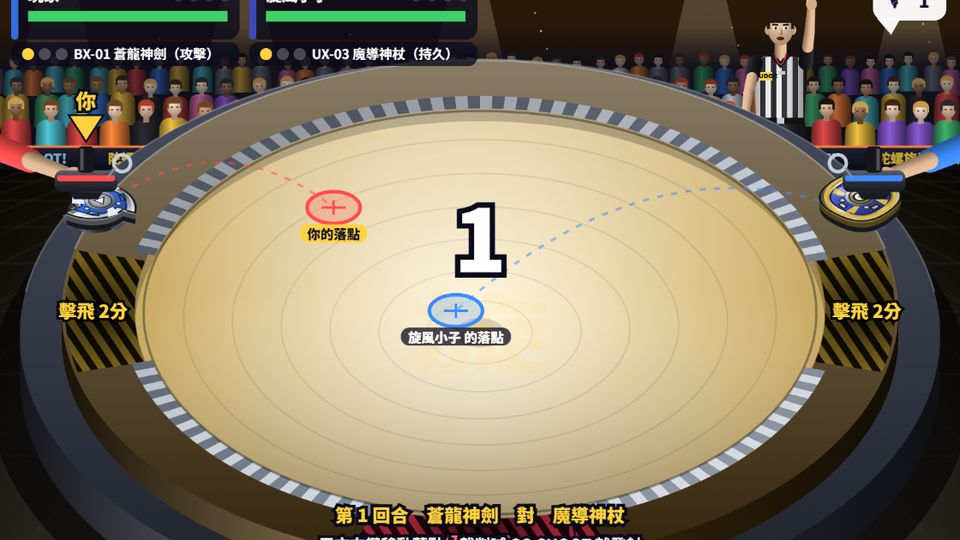
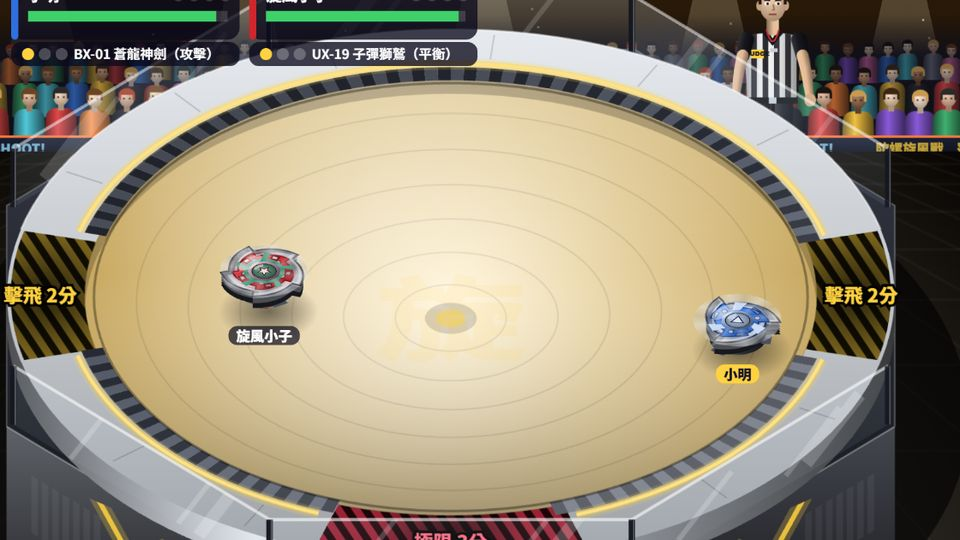
陀螺旋風戰：新擂台（黑色八角底座、透明護罩、發光軌道），碰撞更頻繁並加入撞飛、撞牆特效

diff --git a/spin.js b/spin.js
@@ -55,7 +55,7 @@ const STAGES=[
   {name:'暴風競技場',stars:5,th:'storm',slope:1,fric:1,decay:1,wind:1,pk:[PK(Math.PI/2,.26,'x'),PK(0,.2,'over'),PK(Math.PI,.2,'over')]},
   {name:'冠軍決賽場',stars:5,th:'final',slope:1,fric:1,decay:1,pk:[PK(Math.PI/2,.24,'x'),PK(0,.19,'over'),PK(Math.PI,.19,'over')]}];
 STAGES.forEach(s=>s.pk.forEach(p=>p.w*=1.3)); /* 場外口袋開口加寬，比較容易被撞進洞裡 */
-const TH={gym:{bg:['#1d2a44','#0e1526'],fl:['#e8edf5','#9aa8c0'],rim:'#2a3550',acc:'#3d8bff'},
+const TH={gym:{bg:['#1d2a44','#0e1526'],fl:['#f2f5f9','#a8b2c4'],rim:'#2a3550',acc:'#3d8bff',rail:'#5cf03c'},
   street:{bg:['#2a2230','#121018'],fl:['#d8d0c4','#8a8070'],rim:'#3a3038',acc:'#ff7a3d'},
   arena:{bg:['#1a1240','#08061a'],fl:['#dfe6ff','#8a94c8'],rim:'#2a2060',acc:'#b98cff'},
   ice:{bg:['#bfe6ff','#5a9ac8'],fl:['#f4fbff','#9cd2f0'],rim:'#4a7aa8',acc:'#3ddbd9'},
@@ -190,18 +190,37 @@ function themeBg(c,th,t){ const T=TH[th],g=c.createLinearGradient(0,0,0,H); g.ad
   if(th==='storm'){ c.strokeStyle='rgba(220,240,255,.35)'; c.lineWidth=2; for(let i=0;i<24;i++){ const x=(i*83+t*300)%(W+200)-100,y=(i*41)%H; c.beginPath(); c.moveTo(x,y); c.lineTo(x+60,y+6); c.stroke(); } }
   if(th==='twin'){ c.strokeStyle='rgba(62,209,106,.15)'; c.lineWidth=1; for(let i=0;i<W;i+=40){ c.beginPath(); c.moveTo(i,0); c.lineTo(i,H); c.stroke(); } for(let j=0;j<H;j+=40){ c.beginPath(); c.moveTo(0,j); c.lineTo(W,j); c.stroke(); } } }
 const inPk=(st,a,extra)=>{ for(const p of st.pk){ let d=Math.abs(((a-p.a)%TAU+TAU*1.5)%TAU-Math.PI); if(d<p.w+(extra||0)) return p; } return null; };
+let ATT=60,POCKV=360,BMK=.05,LUNGE=9,KBK=1.5; const OCT_R=AR+60,OCT_Y=16,OCT_H=90,WALL_H=46;
+const octP=(k,r,dy)=>{ const a=k*Math.PI/4+Math.PI/8; return [sx(Math.cos(a)*r),sy(Math.sin(a)*r)+dy]; };
+function acryl(c,k,al,back){ const [x0,y0]=octP(k,OCT_R-4,OCT_Y),[x1,y1]=octP(k+1,OCT_R-4,OCT_Y),H2=WALL_H; /* 透明壓克力護罩一片 */
+  c.save(); c.beginPath(); c.moveTo(x0,y0); c.lineTo(x1,y1); c.lineTo(x1,y1-H2); c.lineTo(x0,y0-H2); c.closePath();
+  const g=c.createLinearGradient(0,Math.min(y0,y1)-H2,0,Math.max(y0,y1)); g.addColorStop(0,'rgba(225,240,255,'+al*1.3+')'); g.addColorStop(1,'rgba(200,225,255,'+al*.45+')'); c.fillStyle=g; c.fill();
+  c.clip(); c.strokeStyle='rgba(255,255,255,'+(back?.16:.2)+')'; c.lineWidth=10; for(const u of [.22,.3,.72]){ const px=x0+(x1-x0)*u,py=y0+(y1-y0)*u; c.beginPath(); c.moveTo(px-20,py+4); c.lineTo(px+22,py-H2-4); c.stroke(); c.lineWidth=4; } c.restore(); /* 反光斜紋 */
+  c.strokeStyle='rgba(255,255,255,'+(back?.5:.6)+')'; c.lineWidth=2.4; c.beginPath(); c.moveTo(x0,y0-H2); c.lineTo(x1,y1-H2); c.stroke(); /* 上緣 */
+  c.strokeStyle='rgba(20,22,30,.85)'; c.lineWidth=5; c.beginPath(); c.moveTo(x0,y0); c.lineTo(x0,y0-H2); c.moveTo(x1,y1); c.lineTo(x1,y1-H2); c.stroke(); /* 黑色角柱 */
+  c.strokeStyle='rgba(255,255,255,.3)'; c.lineWidth=1; c.beginPath(); c.moveTo(x0+1.5,y0); c.lineTo(x0+1.5,y0-H2); c.moveTo(x1+1.5,y1); c.lineTo(x1+1.5,y1-H2); c.stroke(); }
+const stadFC={}; function stadiumFront(si){ if(stadFC[si]) return stadFC[si]; const cv=document.createElement('canvas'); cv.width=W*2; cv.height=H*2; const c=cv.getContext('2d'); c.scale(2,2);
+  for(let k=0;k<8;k++){ const m=k*Math.PI/4+Math.PI/4; if(Math.sin(m)<.01) continue; acryl(c,k,.07,false); } stadFC[si]=cv; return cv; }
 function stadium(si){ if(stadCache[si]) return stadCache[si]; const ST=STAGES[si],T=TH[ST.th],cv=document.createElement('canvas'); cv.width=W*2; cv.height=H*2; const c=cv.getContext('2d'); c.scale(2,2);
   const dip=r=>DIP*Math.max(0,1-(r/AR)*(r/AR)),E=(r,dy)=>{ c.beginPath(); c.ellipse(CX,CY+(dy||0)+dip(r),r*S,r*S*SQ,0,0,TAU); };
   // 圓柱側面（只畫看得到的前半圈），左右暗、偏左亮
   const side=(r,y0,h,col)=>{ const rx=r*S,ry=r*S*SQ,g=c.createLinearGradient(CX-rx,0,CX+rx,0); g.addColorStop(0,shade(col,-.65)); g.addColorStop(.28,shade(col,.2)); g.addColorStop(.55,shade(col,-.2)); g.addColorStop(1,shade(col,-.75));
     c.beginPath(); c.ellipse(CX,CY+y0,rx,ry,0,0,Math.PI); c.lineTo(CX-rx,CY+y0+h); c.ellipse(CX,CY+y0+h,rx,ry,0,Math.PI,0,true); c.closePath(); c.fillStyle=g; c.fill(); };
-  // 台座
-  const PR=AR+64; c.fillStyle='rgba(0,0,0,.55)'; c.beginPath(); c.ellipse(CX,CY+66,PR*S+26,PR*S*SQ+16,0,0,TAU); c.fill();
-  side(PR,20,36,'#3a3f4e'); const pg=c.createLinearGradient(0,CY-PR*S*SQ,0,CY+PR*S*SQ); pg.addColorStop(0,'#4a5062'); pg.addColorStop(1,'#20232c'); c.fillStyle=pg; E(PR,20-dip(PR)); c.fill();
-  c.strokeStyle='rgba(255,255,255,.22)'; c.lineWidth=1.5; c.beginPath(); c.ellipse(CX,CY+20,PR*S,PR*S*SQ,0,Math.PI*1.05,Math.PI*1.95); c.stroke();
-  // 場地外殼
-  side(AR+40,0,22,T.rim); const g0=c.createLinearGradient(0,CY-(AR+40)*S*SQ,0,CY+(AR+40)*S*SQ); g0.addColorStop(0,shade(T.rim,.35)); g0.addColorStop(1,shade(T.rim,-.3)); c.fillStyle=g0; E(AR+40); c.fill();
-  c.strokeStyle='rgba(255,255,255,.3)'; c.lineWidth=1.5; c.beginPath(); c.ellipse(CX,CY,(AR+40)*S,(AR+40)*S*SQ,0,Math.PI*1.08,Math.PI*1.92); c.stroke();
+  // 黑色壓克力底座（八角形）＋透明護罩的後半圈；前半圈護罩在 stadiumFront 畫在陀螺前面
+  const SH=T.shell||(ST.th==='lava'||ST.th==='space'?T.rim:'#dde2ea'),RL=T.rail||T.acc;
+  c.fillStyle='rgba(0,0,0,.6)'; c.beginPath(); c.ellipse(CX,CY+96,(OCT_R+20)*S,(OCT_R+20)*S*SQ,0,0,TAU); c.fill();
+  for(let k=0;k<8;k++){ const m=k*Math.PI/4+Math.PI/4; if(Math.sin(m)<.01) continue; const [x0,y0]=octP(k,OCT_R,OCT_Y),[x1,y1]=octP(k+1,OCT_R,OCT_Y),lit=.5+.5*Math.cos(m-Math.PI*.75); /* 底座側面 */
+    c.beginPath(); c.moveTo(x0,y0); c.lineTo(x1,y1); c.lineTo(x1,y1+OCT_H); c.lineTo(x0,y0+OCT_H); c.closePath(); const sg=c.createLinearGradient(0,Math.min(y0,y1),0,Math.max(y0,y1)+OCT_H); sg.addColorStop(0,shade('#2a2d36',lit*.25)); sg.addColorStop(1,'#08090c'); c.fillStyle=sg; c.fill();
+    c.save(); c.clip(); c.transform(x1-x0,y1-y0,0,OCT_H,x0,y0); /* 面板座標：0～1 */
+    c.fillStyle='rgba(255,255,255,.05)'; for(let q=0;q<7;q++) c.fillRect(.08+q*.04,.3,.025,.5); for(let q=0;q<7;q++) c.fillRect(.64+q*.04,.3,.025,.5); /* 散熱格柵 */
+    c.strokeStyle=RL; c.globalAlpha=.85; c.lineWidth=.03; c.beginPath(); c.moveTo(.36,.18); c.lineTo(.64,.95); c.moveTo(.64,.18); c.lineTo(.36,.95); c.stroke(); c.globalAlpha=.25; c.lineWidth=.09; c.stroke(); c.restore();
+    c.strokeStyle='rgba(255,255,255,.18)'; c.lineWidth=1; c.beginPath(); c.moveTo(x0,y0+.5); c.lineTo(x1,y1+.5); c.stroke(); }
+  { c.beginPath(); for(let k=0;k<=8;k++){ const [x,y]=octP(k,OCT_R,OCT_Y); k?c.lineTo(x,y):c.moveTo(x,y); } const tg=c.createLinearGradient(0,CY-OCT_R*S*SQ,0,CY+OCT_R*S*SQ); tg.addColorStop(0,'#3a3e4a'); tg.addColorStop(1,'#14161c'); c.fillStyle=tg; c.fill(); c.strokeStyle='rgba(255,255,255,.25)'; c.lineWidth=1.2; c.stroke(); }
+  for(let k=0;k<8;k++){ const m=k*Math.PI/4+Math.PI/4; if(Math.sin(m)>-.01) continue; acryl(c,k,.17,true); } /* 後面的透明護罩 */
+  // 場地外殼（白色塑膠）
+  side(AR+40,0,22,SH); const g0=c.createLinearGradient(0,CY-(AR+40)*S*SQ,0,CY+(AR+40)*S*SQ); g0.addColorStop(0,shade(SH,.3)); g0.addColorStop(1,shade(SH,-.28)); c.fillStyle=g0; E(AR+40); c.fill();
+  c.strokeStyle='rgba(255,255,255,.55)'; c.lineWidth=1.5; c.beginPath(); c.ellipse(CX,CY,(AR+40)*S,(AR+40)*S*SQ,0,Math.PI*1.08,Math.PI*1.92); c.stroke();
+  c.strokeStyle='rgba(0,0,0,.18)'; c.lineWidth=1; for(let q=0;q<16;q++){ const a=q/16*TAU+.1; if(inPk(ST,a,.08)) continue; c.beginPath(); c.moveTo(sx(Math.cos(a)*(AR+14)),sy(Math.sin(a)*(AR+14))); c.lineTo(sx(Math.cos(a)*(AR+36)),sy(Math.sin(a)*(AR+36))); c.stroke(); } /* 外殼分模線 */
   // 得分口袋（往下凹的洞）
   for(const p of ST.pk){ c.save(); const a0=p.a-p.w,a1=p.a+p.w; c.beginPath(); for(let i=0;i<=20;i++){ const a=a0+(a1-a0)*i/20; c.lineTo(sx(Math.cos(a)*(AR+38)),sy(Math.sin(a)*(AR+38))); } for(let i=20;i>=0;i--){ const a=a0+(a1-a0)*i/20; c.lineTo(sx(Math.cos(a)*(AR-4)),sy(Math.sin(a)*(AR-4))); } c.closePath();
     const xz=p.k==='x'; c.fillStyle=xz?'#1c0408':'#141004'; c.fill(); c.clip(); c.strokeStyle=xz?'rgba(255,61,90,.55)':'rgba(255,210,63,.5)'; c.lineWidth=6; for(let i=-30;i<30;i++){ c.beginPath(); c.moveTo(sx(Math.cos(p.a)*AR)+i*14-40,sy(Math.sin(p.a)*AR)-60); c.lineTo(sx(Math.cos(p.a)*AR)+i*14+40,sy(Math.sin(p.a)*AR)+60); c.stroke(); }
@@ -222,8 +241,10 @@ function stadium(si){ if(stadCache[si]) return stadCache[si]; const ST=STAGES[si
   c.fillStyle='rgba(0,0,0,.14)'; E(14); c.fill(); c.fillStyle=T.acc; c.globalAlpha=.5; E(8); c.fill(); c.globalAlpha=1;
   // 齒輪軌道（有內緣陰影）
   for(let i=0;i<180;i++){ const a=i/180*TAU; if(inPk(ST,a)) continue; const a2=a+TAU/180; c.beginPath(); c.moveTo(sx(Math.cos(a)*(AR-6)),sy(Math.sin(a)*(AR-6))); c.lineTo(sx(Math.cos(a)*(AR+6)),sy(Math.sin(a)*(AR+6))); c.lineTo(sx(Math.cos(a2)*(AR+6)),sy(Math.sin(a2)*(AR+6))); c.lineTo(sx(Math.cos(a2)*(AR-6)),sy(Math.sin(a2)*(AR-6))); c.closePath();
-    const lit=.5+.5*Math.sin(a+.6); c.fillStyle=ST.lava?(i%2?'#ff9a4a':'#a83a1a'):shade(i%2?'#c8ced8':'#6a7282',(lit-.5)*.5); c.fill(); }
+    const lit=.5+.5*Math.sin(a+.6); c.fillStyle=ST.lava?(i%2?'#ff9a4a':'#a83a1a'):shade(i%2?'#5a606e':'#2a2e38',(lit-.5)*.5); c.fill(); }
   c.strokeStyle='rgba(0,0,0,.35)'; c.lineWidth=2; E(AR-7); c.stroke();
+  { const seg=[]; let a0=null; for(let i=0;i<=360;i++){ const a=i/360*TAU,inn=!inPk(ST,a,.03); if(inn&&a0==null) a0=a; if((!inn||i===360)&&a0!=null){ seg.push([a0,a]); a0=null; } } /* 發光軌道線（口袋處斷開） */
+    for(const [p0,p1] of seg){ for(const [lw,al] of [[9,.18],[5,.35],[2.6,1]]){ c.strokeStyle=al<1?RL:shade(RL,.35); c.globalAlpha=al; c.lineWidth=lw; c.beginPath(); c.ellipse(CX,CY,(AR+9)*S,(AR+9)*S*SQ,0,p0,p1); c.stroke(); } } c.globalAlpha=1; }
   stadCache[si]=cv; return cv; }
 // 看台觀眾（固定亂數產生，三排，後排比較小、比較暗）
 const CROWD=(()=>{ const a=[]; let sd=7; const rnd=()=>(sd=(sd*16807)%2147483647)/2147483647;
@@ -326,7 +347,7 @@ function create(env,opts){
   const rdy=T.map(f=>!f.human); let ed=local2?0:me,cur=0,waiting=false,deckT=net?60:0;
   let t=0,rt=0,round=0,phase='ready',PT=opts.preview?.2:2.6,fx=[],deb=[],ban=null,ev=[],shake=0,hitstop=0,ended=false,sendT=0,lastBeep=9,winKey=null,inBuf={},sentDash=0,myIn={...NOIN},windA=0,cam={x:W/2,y:H/2,z:1},focus=null,punch=0,slow=0,cheer=0,refSay=null,camOn=true,nb=null,BUL=[];
   const snd=k=>{ if(opts.preview) return; env.sfx(k); if(host&&net) ev.push(['s',k]); };
-  const addFx=(k,x,y,a,b)=>{ spawn(k,x,y,a,b); if(host&&net) ev.push([k,R1(x),R1(y),a==null?0:a,b==null?0:b]); };
+  let wallHits=0; const addFx=(k,x,y,a,b)=>{ spawn(k,x,y,a,b); if(host&&net) ev.push([k,R1(x),R1(y),a==null?0:a,b==null?0:b]); };
   // 裁判喊話（同時出對話框）、觀眾歡呼聲
   function voice(txt,urgent){ refSay={txt,t:Math.max(1.3,txt.length*.17)}; if(opts.preview) return; if(host&&net) ev.push(['v',txt,urgent?1:0]); speak(txt,urgent); }
   function roar(v,d){ cheer=Math.max(cheer,v*1.3); if(opts.preview) return; if(host&&net) ev.push(['c',v,d]); roarL(v,d); }
@@ -336,6 +357,9 @@ function create(env,opts){
     const g=AC.createGain(),n0=AC.currentTime; g.gain.setValueAtTime(.0001,n0); g.gain.linearRampToValueAtTime(.3*vol,n0+.18); g.gain.setValueAtTime(.3*vol,n0+d*.45); g.gain.exponentialRampToValueAtTime(.0001,n0+d);
     so.connect(bp); bp.connect(lp); lp.connect(g); g.connect(AC.destination); so.start(n0); so.stop(n0+d+.05); }catch(e){} }
   function spawn(k,x,y,a,b){
+    if(k==='clash'){ const q0=b/100; for(let i=0;i<10;i++){ const q=q0+Math.PI/2*(i%2?1:-1)+(Math.random()-.5)*1.1; fx.push({k:'sl',x,y,a:q,l:.22,L:.22,r:40+Math.min(120,a*.25)*(.6+Math.random()*.6)}); } fx.push({k:'ring',x,y,l:.3,L:.3,r:70+Math.min(90,a*.2),c:'#fff3c0'}); if(a>300) fx.push({k:'flash',l:.12,L:.12}); }
+    if(k==='wall'){ const r=hyp(x,y)||1,nx=x/r,ny=y/r,tx=-ny*(b||1),ty=nx*(b||1),n=Math.min(40,10+a*.08); for(let i=0;i<n;i++){ const sd=(i%2?1:-1),s=150+Math.random()*(150+a*.6),q=(Math.random()-.5)*.6; fx.push({k:'sp',x,y,z:8,vx:(tx*sd-nx*.6+q)*s,vy:(ty*sd-ny*.6-q)*s,vz:60+Math.random()*180,l:.15+Math.random()*.35,c:['#ffffff','#fff3a0','#9cff6a','#ffb040'][i%4]}); }
+      fx.push({k:'wf',a:Math.atan2(y,x),l:.35,L:.35,w:.1+Math.min(.25,a/2000)}); fx.push({k:'glow',x,y,l:.14,L:.14,r:40+Math.min(80,a*.12)}); return; }
     if(k==='spark'){ const n=Math.min(64,12+a*.13); for(let i=0;i<n;i++){ const q=Math.random()*TAU,s=120+Math.random()*(220+a*.7); fx.push({k:'sp',x,y,z:10,vx:Math.cos(q)*s,vy:Math.sin(q)*s,vz:40+Math.random()*170,l:.12+Math.random()*.38,c:['#fffbe8','#ffe08a','#ffb040','#ff8a2a'][i%4]}); }
       fx.push({k:'glow',x,y,l:.16,L:.16,r:30+Math.min(90,a*.16)}); if(a>260) fx.push({k:'ring',x,y,l:.25,L:.25,r:60,c:'#ffffff'}); }
     else if(k==='dash'){ for(let i=0;i<14;i++) fx.push({k:'sp',x:x+(Math.random()-.5)*16,y:y+(Math.random()-.5)*16,z:4,vx:(Math.random()-.5)*200,vy:(Math.random()-.5)*200,vz:80+Math.random()*80,l:.3+Math.random()*.3,c:i%2?'#ff7a3d':'#ffe060'}); fx.push({k:'ring',x,y,l:.35,L:.35,r:60,c:'#ff9d3d'}); }
@@ -411,20 +435,21 @@ function create(env,opts){
     let ax=-f.x*2.3*ST.slope,ay=-f.y*2.3*ST.slope; /* 碗面坡度：把陀螺一直拉回中間互撞 */
     ax+=tx*120*K.wander*K.mv*frac; ay+=ty*120*K.wander*K.mv*frac;
     f.wa+=(Math.random()-.5)*h*10; const wn=40*(.25+K.wander)*frac; ax+=Math.cos(f.wa)*wn; ay+=Math.sin(f.wa)*wn; /* 陀螺自己晃動 */
-    { const v=hyp(f.vx,f.vy)||.001,vd=K.cruise*Math.pow(frac,.6)*(f.spin<20?.5:1); if(v<vd){ const a=(vd-v)*1.6; ax+=f.vx/v*a; ay+=f.vy/v*a; } /* 底座抓地自己往前跑（平頭跑得快、針頭幾乎不動） */
+    if(f.kT>0) f.kT-=h; { const v=hyp(f.vx,f.vy)||.001,vd=K.cruise*Math.pow(frac,.6)*(f.spin<20?.5:1); if(v<vd&&!(f.kT>0)){ const a=(vd-v)*1.6; ax+=f.vx/v*a; ay+=f.vy/v*a; } /* 底座抓地自己往前跑（平頭跑得快、針頭幾乎不動） */
       f.cp=(f.cp||Math.random()*TAU)+h*(.8+Math.random()*.8); const cv=K.curv*K.dir*frac*h*(.3+.9*Math.sin(f.cp)),cs=Math.cos(cv),sn=Math.sin(cv),vx0=f.vx; f.vx=vx0*cs-f.vy*sn; f.vy=vx0*sn+f.vy*cs; } /* 順著旋轉方向轉彎，跑出花瓣路線 */
-    if(K.seek>0&&f.spin>15){ const tg=T.find(q=>q!==f&&q.st==='on'); if(tg){ const dx=tg.x-f.x,dy=tg.y-f.y,d=hyp(dx,dy); if(d>RAD*2.4){ const v=hyp(f.vx,f.vy)||1,cr=clamp((f.vx*dy-f.vy*dx)/(v*d),-1,1),tn=cr*K.seek*frac*h*clamp((rt-2.5)/2,0,1),cs=Math.cos(tn),sn=Math.sin(tn),vx0=f.vx; f.vx=vx0*cs-f.vy*sn; f.vy=vx0*sn+f.vy*cs; } } } /* 攻擊型底座一直掃向對手（真實比賽裡花瓣路線會反覆撞上中間的陀螺） */
+    if(f.spin>15&&!(f.kT>0)){ const tg=T.find(q=>q!==f&&q.st==='on'); if(tg){ const dx=tg.x-f.x,dy=tg.y-f.y,d=hyp(dx,dy); if(d>RAD*2.4){ const v=hyp(f.vx,f.vy)||1,cr=clamp((f.vx*dy-f.vy*dx)/(v*d),-1,1),tn=cr*(d<120?LUNGE:Math.max(K.seek,1.6)*1.25)*frac*h*clamp((rt-1)/1.5,0,1),cs=Math.cos(tn),sn=Math.sin(tn),vx0=f.vx; f.vx=vx0*cs-f.vy*sn; f.vy=vx0*sn+f.vy*cs; } const at=(ATT+60*Math.min(K.seek,3.5))*frac*clamp((rt-1)/1.5,0,1); ax+=dx/d*at; ay+=dy/d*at; } } /* 攻擊型底座一直掃向對手（真實比賽裡花瓣路線會反覆撞上中間的陀螺） */
     if(ST.wind){ const wd=Math.sin(windA)>0?1:-1; ax+=-ny*wd*70; ay+=nx*wd*70; }
     if(f.dashT>0){ f.dashT-=h; ax+=tx*1100*K.dash*(ST.lava?1.3:1); ay+=ty*1100*K.dash*(ST.lava?1.3:1);
       if(f.dashT<=0){ f.vx-=nx*260; f.vy-=ny*260; f.dEnd=rt; f.wallT=0; } }
-    f.vx+=ax*h; f.vy+=ay*h; const damp=Math.exp(-h*ST.fric*(.35+.35/K.mv)*(f.spin<20?2:1)); f.vx*=damp; f.vy*=damp;
+    f.vx+=ax*h; f.vy+=ay*h; const damp=Math.exp(-h*ST.fric*(.35+.35/K.mv)*(f.spin<20?2:1)*(f.kT>0?.6:1)); f.vx*=damp; f.vy*=damp;
     const vmax=f.dashT>0?620:520,v=hyp(f.vx,f.vy); if(v>vmax){ f.vx*=vmax/v; f.vy*=vmax/v; }
     f.x+=f.vx*h; f.y+=f.vy*h;
     r=hyp(f.x,f.y); nx=f.x/r; ny=f.y/r; const wall=AR-RAD+6;
     if(r>wall){ const pk=inPk(ST,Math.atan2(f.y,f.x));
-      if(pk){ const vr=f.vx*nx+f.vy*ny; if(vr<35&&r<AR+4&&rt-f.lastT>.5){ if(vr>0){ f.vx-=vr*nx*1.6; f.vy-=vr*ny*1.6; } f.x=nx*Math.min(r,wall+4); f.y=ny*Math.min(r,wall+4); } /* 口袋前緣：慢慢滑過去不會掉，被撞或衝太快才出場 */
+      if(pk){ const vr=f.vx*nx+f.vy*ny; if(vr<POCKV&&r<AR+4&&rt-f.lastT>.5){ if(vr>0){ f.vx-=vr*nx*1.6; f.vy-=vr*ny*1.6; } f.x=nx*Math.min(r,wall+4); f.y=ny*Math.min(r,wall+4); } /* 口袋前緣：慢慢滑過去不會掉，被撞或衝太快才出場 */
         else if(r>AR+6){ finish(f,pk.k==='x'?'x':'over',pk); return; } } /* 掉進紅色極限區域＝極限勝利 3 分，黃色擊飛區域＝擊飛勝利 2 分 */
-      else { const vr=f.vx*nx+f.vy*ny; if(vr>300*Math.sqrt(K.wgt)&&rt-f.lastT<.35){ finish(f,'over',null); return; } /* 被重擊：直接飛過護欄出場＝擊飛勝利 */
+      else { const vr=f.vx*nx+f.vy*ny; if(vr>470*Math.sqrt(K.wgt)&&rt-f.lastT<.35){ finish(f,'over',null); return; } /* 被重擊：直接飛過護欄出場＝擊飛勝利 */
+        if(vr>170&&!(f.wcd>rt)){ f.wcd=rt+.25; wallHits++; addFx('wall',nx*AR,ny*AR,Math.round(vr),K.dir); snd(vr>320?'hurt':'bump'); shake=Math.max(shake,Math.min(.3,vr/1400)); if(vr>320){ hitstop=Math.max(hitstop,.05); roar(.45,1); } f.spin-=vr*.004; }
         if(vr>0){ f.vx-=vr*nx*1.75; f.vy-=vr*ny*1.75; } f.x=nx*wall; f.y=ny*wall; const touch=!f.wallT; f.wallT=(f.wallT||0)+h; if(f.wallT>.7&&f.dashT<=0){ f.wallT=0; f.vx-=nx*200; f.vy-=ny*200; } /* 貼著場邊太久會被彈回中間 */
         const vt=f.vx*(-ny*K.dir)+f.vy*(nx*K.dir);
         if(f.dashT<=0&&f.railCD<=0&&f.spin>25&&vt>70&&(touch?Math.random()<.42*K.dash:Math.random()<.02*K.dash*(1+vt/200))){ f.dashT=.34; f.railCD=1.6; addFx('dash',f.x,f.y); snd('boost'); }
@@ -452,17 +477,18 @@ function create(env,opts){
     const vn=(b.vx-a.vx)*nx+(b.vy-a.vy)*ny; if(vn>-10) return;
     const fa=a.spin/100,fb=b.spin/100,same=a.k.dir===b.k.dir,ex=(same?300:120)*(a.k.atk*fa+b.k.atk*fb)/2+(a.dashT>0||b.dashT>0?230:0);
     const j=-(1.55)*vn/(1/ma+1/mb),I=-vn+ex*.6;
-    const kb=1.85*(j+ex)*a.k.atk/b.k.def/mb*(1-.12*b.k.low),ka=1.85*(j+ex)*b.k.atk/a.k.def/ma*(1-.12*a.k.low);
+    const kb=KBK*(j+ex)*a.k.atk/b.k.def/mb*(1-.12*b.k.low),ka=KBK*(j+ex)*b.k.atk/a.k.def/ma*(1-.12*a.k.low);
     b.vx+=nx*kb; b.vy+=ny*kb; a.vx-=nx*ka; a.vy-=ny*ka;
-    b.spin-=I*.017*a.k.atk/b.k.def; a.spin-=I*.017*b.k.atk/a.k.def;
+    for(const [f,k] of [[a,ka],[b,kb]]) if(k>200){ const r=hyp(f.x,f.y)||1; f.vx+=f.x/r*k*.1; f.vy+=f.y/r*k*.1; if(k>200) f.kT=Math.min(.55,.2+k/1400); } /* 被撞的一方往外飛、一路滑到場邊 */
+    b.spin-=I*.012*a.k.atk/b.k.def; a.spin-=I*.012*b.k.atk/a.k.def;
     if(!same){ const m=(a.spin+b.spin)/2; a.spin+=(m-a.spin)*.12; b.spin+=(m-b.spin)*.12; }
     if(I>110&&rt>.8){ splitTop(a,b); splitTop(b,a); }
     const thr=210;
-    if(I>thr){ b.bm+=(I-thr)*.27*a.k.atk/(b.k.def*b.k.res)*(.4+Math.random()); a.bm+=(I-thr)*.27*b.k.atk/(a.k.def*a.k.res)*(.4+Math.random()); }
+    if(I>thr){ b.bm+=(I-thr)*BMK*a.k.atk/(b.k.def*b.k.res)*(.4+Math.random()); a.bm+=(I-thr)*BMK*b.k.atk/(a.k.def*a.k.res)*(.4+Math.random()); }
     if(a.bm>=100&&b.bm>=100){ if(a.bm>b.bm) b.bm=99; else a.bm=99; } /* 同時爆裂只算一顆 */
     a.last=b.i; a.lastT=rt; b.last=a.i; b.lastT=rt; a.hs++; b.hs++;
     if(a.dashT>0||rt-a.dEnd<.4) b.lastX=rt; if(b.dashT>0||rt-b.dEnd<.4) a.lastX=rt;
-    const mx=(a.x+b.x)/2,my=(a.y+b.y)/2; addFx('spark',mx,my,Math.round(I)); snd(I>260?'hurt':'bump');
+    const mx=(a.x+b.x)/2,my=(a.y+b.y)/2; addFx('spark',mx,my,Math.round(I)); if(I>150) addFx('clash',mx,my,Math.round(I),Math.round(Math.atan2(ny,nx)*100)); snd(I>260?'hurt':'bump');
     if(I>260){ hitstop=Math.max(hitstop,.07); shake=Math.max(shake,.22); punch=.5; roar(.4,1); }
     for(const f of [a,b]) if(f.bm>=100&&f.st==='on') finish(f,'burst');
     if(a.spin<=0&&a.st==='on'){ a.spin=0; finish(a,'spin'); } if(b.spin<=0&&b.st==='on'){ b.spin=0; finish(b,'spin'); } }
@@ -518,6 +544,7 @@ function create(env,opts){
     if(net){ sendT-=dt; if(sendT<=0){ sendT=1/20; net.send({s:{f:T.map(pk),sc:score,ph:phase,pt:R1(PT),rd:round,rt:R1(rt),wa:R1(windA),ev,bl:BUL.map(b=>[b.own,R1(b.x),R1(b.y),R1(b.spin)])}}); ev=[]; } } }
   // 衝刺時軌道磨出火花、地上留下擦痕；觀眾情緒、裁判對話框
   function visStep(dt){ if(cheer>0) cheer=Math.max(0,cheer-dt*.35); if(refSay){ refSay.t-=dt; if(refSay.t<=0) refSay=null; }
+    if(phase==='fight'||phase==='after') for(const f of T) if(f.st==='on'&&hyp(f.vx,f.vy)>330){ f.ghT=(f.ghT||0)-dt; if(f.ghT<=0){ f.ghT=.03; fx.push({k:'gh',x:f.x,y:f.y,l:.16,L:.16,c:f.col}); } }
     for(const f of T) if(f.st==='on'&&f.dashT>0&&(phase==='fight'||phase==='after')){ const r=hyp(f.x,f.y)||1,nx=f.x/r,ny=f.y/r,wx=f.x+nx*RAD*.9,wy=f.y+ny*RAD*.9,tx=-ny*f.k.dir,ty=nx*f.k.dir;
       for(let i=0;i<3;i++){ const q=(Math.random()-.5)*.8,s=120+Math.random()*240; fx.push({k:'sp',x:wx,y:wy,z:3,vx:(-tx+nx*.5+q)*s,vy:(-ty+ny*.5-q)*s,vz:40+Math.random()*100,l:.12+Math.random()*.25,c:Math.random()<.5?'#fff3c0':'#ffb040'}); }
       fx.push({k:'tr',x:f.x,y:f.y,l:1.6,L:1.6}); } }
@@ -577,6 +604,7 @@ function create(env,opts){
     c.save(); view(1); c.drawImage(bg,0,0,W,H);
     // 地上的擦痕與煙
     for(const e of fx){ if(e.k==='tr'){ c.globalAlpha=e.l/e.L*.28; c.fillStyle='#14141c'; c.beginPath(); c.ellipse(sx(e.x),sz(e.x,e.y),9,9*SQ,0,0,TAU); c.fill(); }
+      else if(e.k==='gh'){ c.globalAlpha=e.l/e.L*.32; c.fillStyle=e.c; c.beginPath(); c.ellipse(sx(e.x),sz(e.x,e.y)-9,20*S*TS*.85,20*S*TS*.85*SQ,0,0,TAU); c.fill(); } /* 被撞飛的殘影 */
       else if(e.k==='sm'){ c.globalAlpha=e.l/e.L*.35; c.fillStyle='#d8d8d8'; c.beginPath(); c.arc(sx(e.x),sz(e.x,e.y)-6,8+(1-e.l/e.L)*16,0,TAU); c.fill(); } }
     c.globalAlpha=1;
     for(const d of deb){ c.globalAlpha=Math.min(1,d.l); const X=sx(d.x),Y=sz(d.x,d.y)-d.z; softShadow(c,X,sz(d.x,d.y),12,.35);
@@ -609,8 +637,12 @@ function create(env,opts){
       if(f.dashT>0){ const dg=c.createRadialGradient(X,Y-10,0,X,Y-10,40); dg.addColorStop(0,'rgba(255,170,80,.45)'); dg.addColorStop(1,'rgba(255,120,40,0)'); c.fillStyle=dg; c.fillRect(X-40,Y-50,80,80); }
       if(f.st==='on'&&phase!=='over'&&cam.z<1.3){ const nm=R.names[f.i].slice(0,6),mine=local2?f.human:f.i===me&&f.human; c.font='900 11px '+TC; c.textAlign='center'; c.textBaseline='middle'; const w2=c.measureText(nm).width+12;
         c.fillStyle=mine?'#ffd23f':'rgba(11,10,28,.7)'; rr(c,X-w2/2,Y+14,w2,15,7); c.fill(); c.fillStyle=mine?'#14122b':'#fff'; c.fillText(nm,X,Y+22); } }
+    c.drawImage(stadiumFront(si),0,0,W,H); /* 前半圈透明護罩 */
     // 火花、撞擊閃光、衝擊波（不用加亮混色，部分手機會很卡）
     c.lineCap='round';
+    for(const e of fx){ if(e.k==='sl'){ const u=1-e.l/e.L,X=sx(e.x),Y=sz(e.x,e.y)-12,dx=Math.cos(e.a),dy=Math.sin(e.a)*SQ,d0=e.r*u*.7,d1=e.r*(.35+u*.9); c.globalAlpha=e.l/e.L; c.strokeStyle='#fffbe8'; c.lineWidth=4*e.l/e.L+1; c.beginPath(); c.moveTo(X+dx*d0,Y+dy*d0); c.lineTo(X+dx*d1,Y+dy*d1); c.stroke(); } /* 撞擊放射線 */
+      else if(e.k==='wf'){ const a=e.l/e.L,RL=TH[ST.th].rail||TH[ST.th].acc; for(const [lw,al] of [[16,.25],[7,.6],[3,1]]){ c.globalAlpha=a*al; c.strokeStyle=al<1?RL:'#ffffff'; c.lineWidth=lw; c.beginPath(); c.ellipse(CX,CY,(AR+9)*S,(AR+9)*S*SQ,0,e.a-e.w,e.a+e.w); c.stroke(); } } } /* 撞牆時軌道閃光 */
+    c.globalAlpha=1;
     for(const e of fx){ if(e.k==='sp'){ const X=sx(e.x),Y=sz(e.x,e.y)-e.z; c.globalAlpha=Math.min(1,e.l*4); c.strokeStyle=e.c; c.lineWidth=1.7; c.beginPath(); c.moveTo(X,Y); c.lineTo(X-e.vx*.028*S,Y-e.vy*.028*S*SQ+e.vz*.02); c.stroke(); }
       else if(e.k==='glow'){ const a=e.l/e.L,X=sx(e.x),Y=sz(e.x,e.y)-10,rg=c.createRadialGradient(X,Y,0,X,Y,e.r); rg.addColorStop(0,'rgba(255,250,225,'+a*.95+')'); rg.addColorStop(.25,'rgba(255,200,110,'+a*.5+')'); rg.addColorStop(1,'rgba(255,120,40,0)'); c.globalAlpha=1; c.fillStyle=rg; c.fillRect(X-e.r,Y-e.r,e.r*2,e.r*2); } }
     for(const e of fx) if(e.k==='ring'){ const a=e.l/e.L; c.globalAlpha=a*.6; c.strokeStyle=e.c; c.lineWidth=3*a+.6; c.beginPath(); c.ellipse(sx(e.x),sz(e.x,e.y)-6,(1-a)*e.r*S+8,((1-a)*e.r*S+8)*SQ,0,0,TAU); c.stroke(); }
@@ -649,13 +681,13 @@ function create(env,opts){
     if(refSay&&phase!=='over') bubble(refSay.txt);
     if(phase==='over'&&winKey){ c.fillStyle='rgba(11,10,28,.35)'; c.fillRect(0,0,W,H); for(let i=0;i<50;i++){ c.fillStyle=PCOL[i%4]; c.fillRect((i*97+t*50*(i%3+1))%W,(i*53+t*140*(1+i%4))%H,6,9); }
       const s=keyName(winKey)+' 獲勝！'; c.font='900 44px '+TC; c.lineWidth=9; c.strokeStyle='#0b0a1c'; c.strokeText(s,W/2,CY-30); c.fillStyle='#ffd23f'; c.fillText(s,W/2,CY-30); } }
-  return {update,draw,destroy(){ if(canvas&&canvas.removeEventListener) canvas.removeEventListener('pointerdown',onDown); },_dbg:{T,get ed(){return ed;},confirmDeck,cyc,get score(){return score;},get phase(){return phase;},get round(){return round;},finish,setPT(v){PT=v;},get cam(){return cam;}}};
+  return {update,draw,destroy(){ if(canvas&&canvas.removeEventListener) canvas.removeEventListener('pointerdown',onDown); },_dbg:{T,get wallHits(){return wallHits;},get ed(){return ed;},confirmDeck,cyc,get score(){return score;},get phase(){return phase;},get round(){return round;},finish,setPT(v){PT=v;},get cam(){return cam;}}};
 }
 // 開始畫面：場地＋兩顆陀螺互撞
 function stageShow(ctx,w,h,si,t){ ctx.save(); ctx.scale(w/W,h/H); themeBg(ctx,STAGES[si].th,t); drawCrowd(ctx,t,.6); drawFloor(ctx,STAGES[si].th); drawRef(ctx,REFX,REFY,1,'idle',t,false); ctx.drawImage(stadium(si),0,0,W,H);
   const a=t*1.3,r=90+Math.sin(t*.8)*40;
   drawTop(ctx,sx(Math.cos(a)*r),sz(Math.cos(a)*r,Math.sin(a)*r),S*TS,{top:OPP[(si*2+1)%OPP.length]},0,t*30,1);
-  drawTop(ctx,sx(Math.cos(a+2.6)*r*.8),sz(Math.cos(a+2.6)*r*.8,Math.sin(a+2.6)*r*.8),S*TS,{top:OPP[(si*2)%OPP.length]},0,-t*30,1); ctx.restore(); }
+  drawTop(ctx,sx(Math.cos(a+2.6)*r*.8),sz(Math.cos(a+2.6)*r*.8,Math.sin(a+2.6)*r*.8),S*TS,{top:OPP[(si*2)%OPP.length]},0,-t*30,1); ctx.drawImage(stadiumFront(si),0,0,W,H); ctx.restore(); }
 function preview(ctx,w,h,L,t){ const g=ctx.createLinearGradient(0,0,0,h); g.addColorStop(0,'#1d2a44'); g.addColorStop(1,'#0b0a1c'); ctx.fillStyle=g; ctx.fillRect(0,0,w,h);
   const P=partsOf(L),B=TOP[P.top],K=statsOf(P),s=Math.min(w,h)/88;
   ctx.fillStyle='rgba(255,255,255,.08)'; ctx.beginPath(); ctx.ellipse(w*.27,h*.62,w*.22,w*.22*SQ,0,0,TAU); ctx.fill();

diff --git a/index.html b/index.html
@@ -253,7 +253,7 @@ body.padswap #pad{flex-direction:row-reverse} /* 方向鍵放右邊 */
 <div id="modal" hidden><div class="card" id="mcard"></div></div>
 
 <script>
-window.ARCADE_V=228; // 每次改版加一
+window.ARCADE_V=229; // 每次改版加一
 (function(){ var q=/github\.io$/.test(location.hostname)?'?v='+window.ARCADE_V:'';
   document.write(['stairs','kart','bomb','volley','dodge','soccer','bowl3d','bowl','baseball3d','baseball','purple','rummy','mahjong','meow','poker','dice','deliver3d','deliver','chess','qi','racer','brawl','bball3d','bball','h3d','golf3d','golf','pool3d','pool','blocks','drum','dance','tower','jelly','rich','space','royale','draw','wolf','passbomb','bubble','claw','tank','dash','spin','night','chase3d','chase'].map(function(n){ return '<script src="'+n+'.js'+q+'"><\/script>'; }).join('')); })();
 </script>
